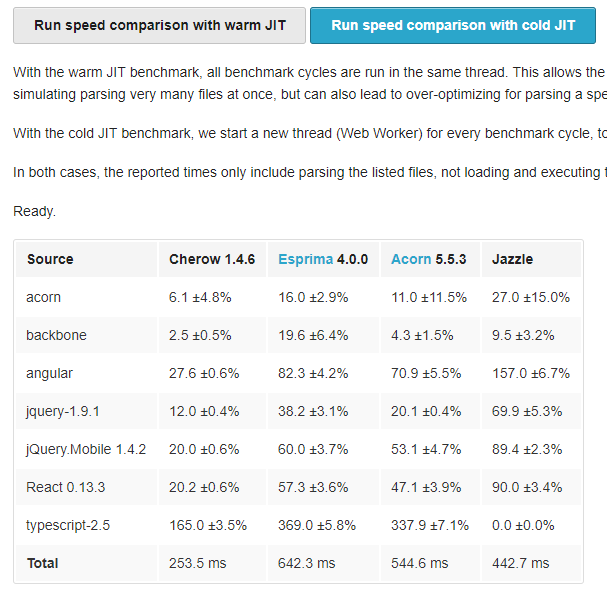
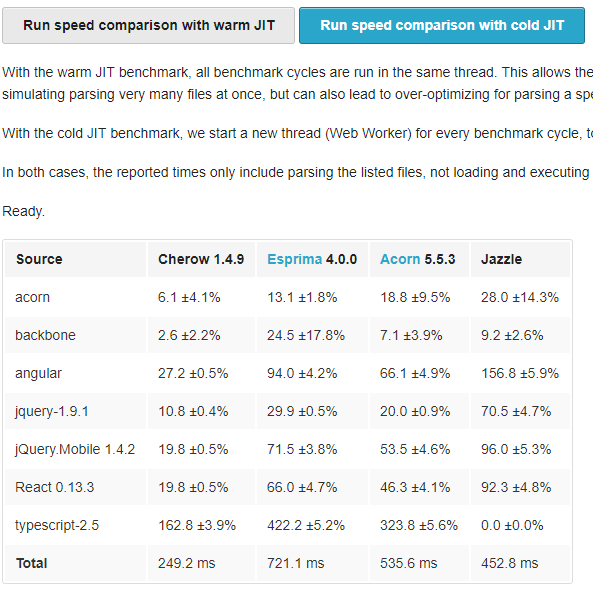
added K's changes plus min
K fixed a possible destructuring issue. I pushed his changes now. I also improved the performance

- J. K. Thomas (drop-by-dev)

diff --git a/src/parser/statements.ts b/src/parser/statements.ts
@@ -62,21 +62,13 @@ export function parseStatementListItem(parser: Parser, context: Context) {
             return parseVariableStatement(parser, context | Context.BlockScope | Context.AllowIn);
         case Token.AsyncKeyword:
             return parseAsyncFunctionDeclarationOrStatement(parser, context);
+        case Token.ImportKeyword:
+            return parseExpressionStatementOrStatement(parser, context);
         case Token.ExportKeyword:
             if (context & Context.Module) tolerant(parser, context, Errors.ExportDeclAtTopLevel);
-            break;
-        case Token.ImportKeyword:
-            // We must be careful not to parse a 'import()'
-            // expression or 'import.meta' as an import declaration.
-            if (context & Context.OptionsNext && lookahead(parser, context, nextTokenIsLeftParenOrPeriod)) {
-                return parseExpressionStatement(parser, context | Context.AllowIn);
-            }
-            if (context & Context.Module) tolerant(parser, context, Errors.ImportDeclAtTopLevel);
-            break;
-        default: // ignore
+        default:
+            return parseStatement(parser, context | Context.AllowSingleStatement);
     }
-
-    return parseStatement(parser, context | Context.AllowSingleStatement);
 }
 
 /**
@@ -89,7 +81,6 @@ export function parseStatementListItem(parser: Parser, context: Context) {
  */
 
 export function parseStatement(parser: Parser, context: Context): any {
-
     switch (parser.token) {
         case Token.VarKeyword:
             return parseVariableStatement(parser, context | Context.AllowIn);
@@ -357,6 +348,20 @@ export function parseExpressionStatement(parser: Parser, context: Context): ESTr
 }
 
 /**
+ * Parses either expression statement or statement
+ * 
+ * @param parser Parser object
+ * @param context Context masks
+ */
+function parseExpressionStatementOrStatement(parser: Parser, context: Context): ESTree.Statement {
+    if (context & Context.OptionsNext && lookahead(parser, context, nextTokenIsLeftParenOrPeriod)) {
+        return parseExpressionStatement(parser, context | Context.AllowIn);
+    }
+    if (context & Context.Module) tolerant(parser, context, Errors.ImportDeclAtTopLevel);
+    return parseStatement(parser, context | Context.AllowSingleStatement);
+}
+
+/**
  * Parse directive node
  * 
  * * @see [Link](https://tc39.github.io/ecma262/#sec-directive-prologues-and-the-use-strict-directive)
@@ -533,7 +538,7 @@ export function parseIterationStatement(parser: Parser, context: Context): ESTre
     // bitfiddling before and after to modify the parser state before we let the 'parseStatement'
     // return the mentioned statements (to match the original grammar).
     const savedFlags = parser.flags;
-    parser.flags |= Flags.Iteration;
+    parser.flags |= Flags.Iteration | Flags.AllowDestructuring;
     const body = parseStatement(parser, context & ~Context.AllowSingleStatement);
     parser.flags = savedFlags;
     return body;

diff --git a/src/parser/module.ts b/src/parser/module.ts
@@ -17,7 +17,8 @@ import {
     lookahead,
     nextTokenIsFuncKeywordOnSameLine,
     nextTokenIsLeftParenOrPeriod,
-    setPendingError
+    setPendingError,
+    hasBit
 } from '../utilities';
 
 // 15.2 Modules
@@ -361,7 +362,6 @@ function parseNamedImports(parser: Parser, context: Context, specifiers: ESTree.
     expect(parser, context, Token.LeftBrace);
 
     while (parser.token !== Token.RightBrace) {
-        // only accepts identifiers or keywords
         specifiers.push(parseImportSpecifier(parser, context));
         if (parser.token !== Token.RightBrace) {
             expect(parser, context, Token.Comma);
@@ -392,12 +392,10 @@ function parseImportSpecifier(parser: Parser, context: Context): ESTree.ImportSp
         expect(parser, context, Token.AsKeyword);
         local = parseBindingIdentifier(parser, context);
     } else {
-        if ((token & Token.Reserved) === Token.Reserved) {
-            tolerant(parser, context, Errors.UnexpectedReserved);
-        }
-        if ((token & Token.IsEvalOrArguments) === Token.IsEvalOrArguments) {
-            tolerant(parser, context, Errors.StrictEvalArguments);
-        }
+         // An import name that is a keyword is a syntax error if it is not followed
+         // by the keyword 'as'.
+        if (hasBit(token, Token.Reserved)) tolerant(parser, context, Errors.UnexpectedReserved);
+        if (hasBit(token, Token.IsEvalOrArguments)) tolerant(parser, context, Errors.StrictEvalArguments);
         local = imported;
     }
 

diff --git a/src/parser/pattern.ts b/src/parser/pattern.ts
@@ -196,22 +196,17 @@ export function parseAssignmentPattern(
  *
  * @param parser Parser object
  * @param context Context masks
- * @param left LHS of assignment pattern
- * @param pos Location
  */
-
-function parseBindingInitializer(
-    parser: Parser,
-    context: Context,
-    pos: Location = getLocation(parser),
-    left: any = parseBindingIdentifierOrPattern(parser, context)
-): ESTree.AssignmentPattern {
-    if (!consume(parser, context, Token.Assign)) return left;
-    return finishNode(context, parser, pos, {
-        type: 'AssignmentPattern',
-        left,
-        right: parseAssignmentExpression(parser, context | Context.AllowIn)
-    });
+function parseBindingInitializer(parser: Parser, context: Context): ESTree.AssignmentPattern {
+    const pos = getLocation(parser)
+    const left: any = parseBindingIdentifierOrPattern(parser, context);
+    return !consume(parser, context, Token.Assign) ?
+        left :
+        finishNode(context, parser, pos, {
+            type: 'AssignmentPattern',
+            left,
+            right: parseAssignmentExpression(parser, context | Context.AllowIn)
+        });
 }
 
 /**

diff --git a/test/parser/statements/for.ts b/test/parser/statements/for.ts
@@ -132,7 +132,18 @@ describe('Statements - For', () => {
         'for (let {j}=x; j<10; ++j) { function foo(){return j} }',
         'for (let j=x; j<10; ++j) { const foo = j }',
         'for (let j=x; j<10; ++j) { let [foo] = [j] }',
+        // tests for possible destructuring regression
         'for (var {j}=x; j<10; ++j) { const foo = j }',
+        `        for ("boolean" == typeof a && (l = a, a = arguments[s] || 
+                {}, s++), "object" == typeof a || 
+                g(a) || (a = {}), s === u && (a = this, s--); s < u; s++)
+        if (null != (e = arguments[s]))
+            for (t in e) n = a[t], a !== (r = e[t]) && (l && r && (w.isPlainObject(r) || 
+            (i = Array.isArray(r))) ? (i ? (i = !1, o = n && Array.isArray(n) 
+            ? n : []) 
+            : o = n && w.isPlainObject(n) 
+            ? n : {}, a[t] = w.extend(l, o, r)) 
+            : void 0 !== r && (a[t] = r));`
     ];
 
     for (const arg of programs) {

diff --git a/src/utilities.ts b/src/utilities.ts
@@ -32,16 +32,15 @@ export const enum Context {
     Async                   = 1 << 18,
     Yield                   = 1 << 19,
     InParameter             = 1 << 20,
-    IsReserved              = 1 << 21,
-    InFunctionBody          = 1 << 22,
-    AllowSingleStatement    = 1 << 23,
-    BlockScope              = 1 << 24,
-    ForStatement            = 1 << 25,
-    RequireIdentifier       = 1 << 26,
-    Method                  = 1 << 27,
-    AllowSuperProperty      = 1 << 28,
-    InParen                 = 1 << 29,
-    InJSXChild              = 1 << 30
+    InFunctionBody          = 1 << 21,
+    AllowSingleStatement    = 1 << 22,
+    BlockScope              = 1 << 23,
+    ForStatement            = 1 << 24,
+    RequireIdentifier       = 1 << 25,
+    Method                  = 1 << 26,
+    AllowSuperProperty      = 1 << 27,
+    InParen                 = 1 << 28,
+    InJSXChild              = 1 << 29
 }
 
 // Mutual parser flags

diff --git a/src/parser/expressions.ts b/src/parser/expressions.ts
@@ -613,7 +613,6 @@ function parseAsyncArgumentList(parser: Parser, context: Context): ESTree.Expres
         if (parser.token === Token.Ellipsis) {
             parser.flags |= Flags.SimpleParameterList;
             args.push(parseSpreadElement(parser, context));
-            parser.flags &= ~(Flags.AllowDestructuring | Flags.AllowBinding);
             state = CoverCallState.HasSpread;
         } else {
             token = parser.token;
